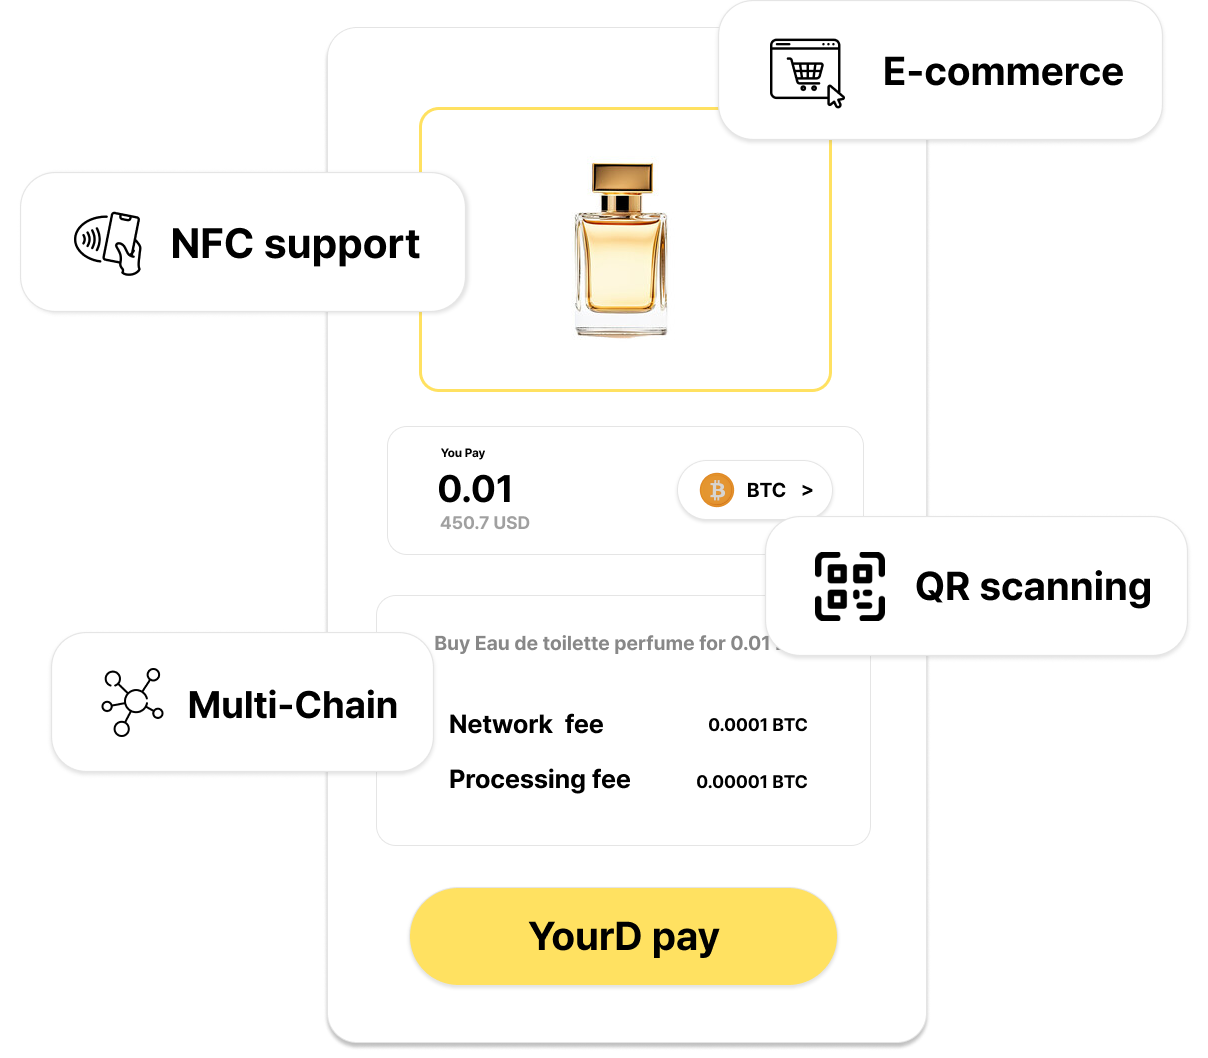
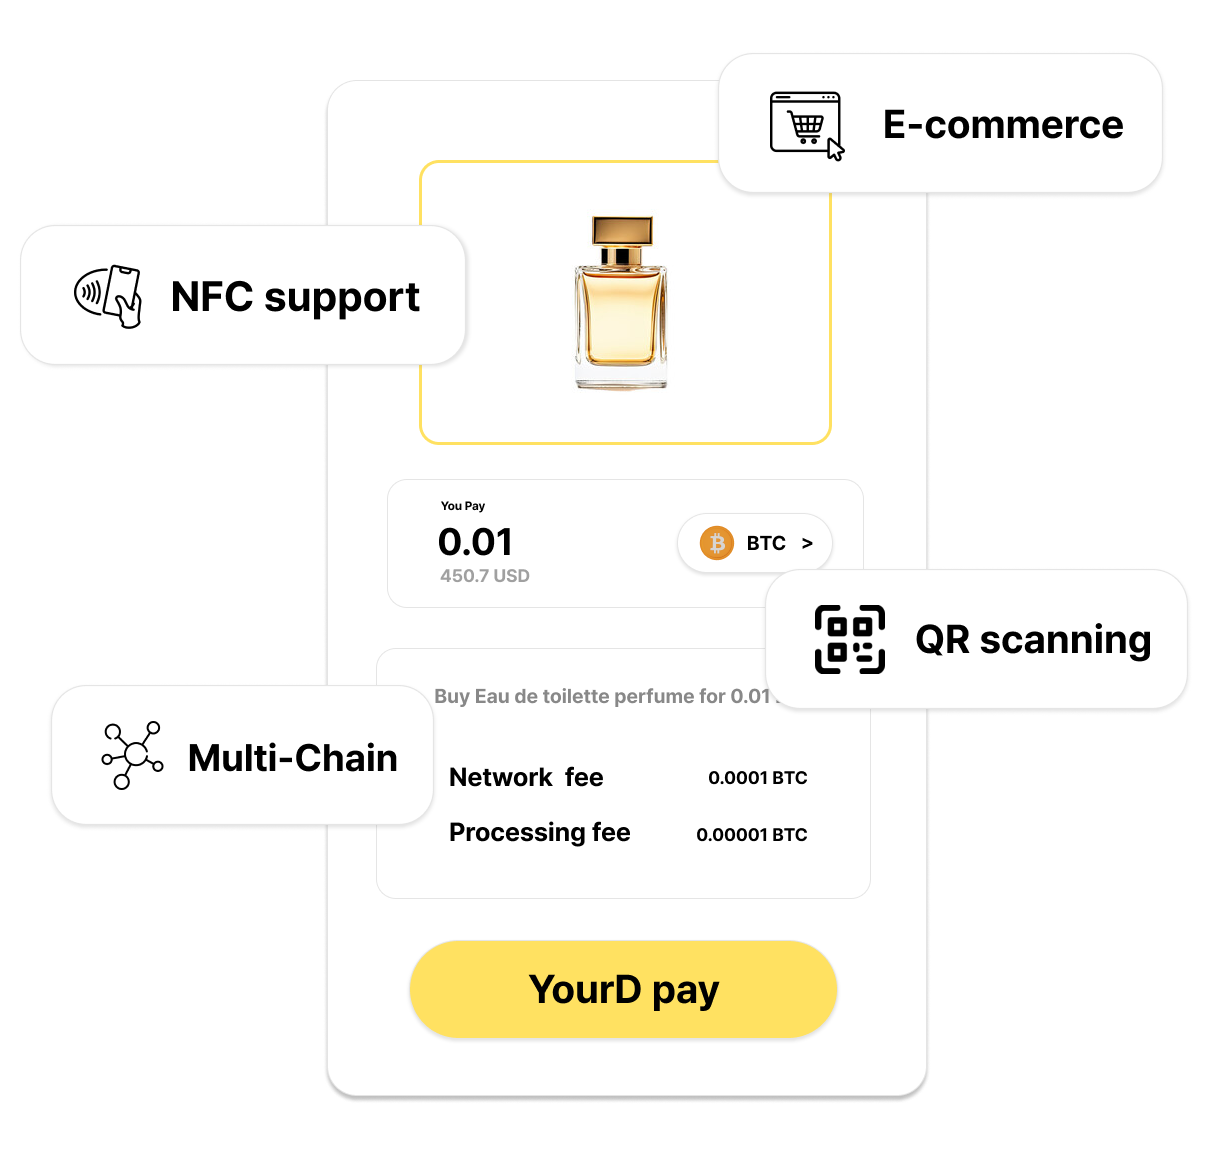
payment page picture modification and reactive

diff --git a/src/components/solutions/payment/EmphasisPayment.jsx b/src/components/solutions/payment/EmphasisPayment.jsx
@@ -25,7 +25,7 @@ const EmphasisSections = [
 
 export default function EmphasisPayment() {
   return (
-    <div className="h-fit min-h-1/2 w-full flex flex-col relative py-10 sm:py-20 justify-between items-center bg-opacity-70 gap-10 sm:gap-20">
+    <div className="h-fit min-h-1/2 w-full flex flex-col relative py-10 sm:py-20 justify-between items-center bg-opacity-70 gap-10 sm:gap-14">
       <div className="sm:text-5xl text-4xl font-bold flex flex-col items-center justify-center">
         <div>
           Your<span className="text-[#fccc00]">D</span>&nbsp;Pay <br />
@@ -58,15 +58,15 @@ export default function EmphasisPayment() {
           </div>
         </div>
       ))} */}
-      <div class="flex flex-col sm:flex-row gap-10 mt-10">
-        <div className="sm:w-[680px] bg-white rounded-xl px-4 py-4 drop-shadow-lg order-1 sm:order-none">
-          <div className="text-xl sm:text-5xl font-bold text-transparent bg-clip-text bg-gradient-to-r from-yellow-400 to-orange-400">
+      <div className="flex flex-col sm:flex-row gap-10 sm:px-12 md:px-16 lg:px-12 w-full">
+        <div className=" bg-white rounded-xl px-4 my-16 py-4 drop-shadow-lg order-1 sm:order-none">
+          <div className="text-xl sm:text-2xl md:text-4xl lg:text-5xl font-bold text-transparent bg-clip-text bg-gradient-to-r from-yellow-400 to-orange-400">
             Without location restrictions
           </div>
-          <div className="mt-14 sm:text-2xl ">
+          <div className="mt-14 sm:text-lg md:text-2xl  ">
             We provide a universal payment solution that can be used in both the
             real world and virtual space.
-            <div className="mt-4"> Pay easily from anywhere.</div>{' '}
+            <div className="mt-4"> Pay easily from anywhere.</div>
             <div className="mt-4">
               Design complex crypto payment systems easily so users don't need
               to know anything technical.
@@ -75,20 +75,20 @@ export default function EmphasisPayment() {
         </div>
         <img
           src={LocationPayment}
-          className="w-full sm:w-3/4 lg:w-2/5 object-contain"
+          className="w-full sm:w-2/5 lg:w-2/5 object-contain"
         />
       </div>
-      <div class="flex flex-col sm:flex-row sm:gap-10 mt-10">
+      <div className="flex flex-col sm:flex-row sm:gap-10 sm:px-12 md:px-16 lg:px-12 ">
         <img
           src={ModulePayment}
-          className="w-full sm:w-3/4 lg:w-2/5 object-contain"
+          className="w-full sm:w-2/5 lg:w-2/5 object-contain"
         />
-        <div className="flex sm:gap-28 mt-10">
-          <div className="sm:w-[680px] bg-white rounded-xl px-4 py-4 drop-shadow-lg">
-            <div className="text-xl sm:text-5xl font-bold text-transparent bg-clip-text bg-gradient-to-r from-yellow-400 to-orange-400">
+        <div className="flex sm:gap-28">
+          <div className=" bg-white rounded-xl px-4 py-4 my-16 drop-shadow-lg">
+            <div className="text-xl sm:text-2xl md:text-4xl font-bold text-transparent bg-clip-text bg-gradient-to-r from-yellow-400 to-orange-400">
               Payment module provided
             </div>
-            <div className="mt-14 sm:text-2xl ">
+            <div className="mt-14 sm:text-lg md:text-2xl">
               Easily integrate into your business with an efficient and powerful
               payment module.
               <div className="mt-10">

diff --git a/src/pages/product/yourdPaymentPage.jsx b/src/pages/product/yourdPaymentPage.jsx
@@ -24,7 +24,7 @@ export default function YourDPaymentPage() {
       </div>
       
       <div className="px-5 w-full sm:px-10 md:px-16 lg:px-[136px] max-w-[1600px] bg-white flex-col flex justify-center items-center mb-10 mt-10">
-        <div className="text-2xl sm:text-5xl">Your<span className="text-[#FCCC00]">D</span>&nbsp;pay</div>
+        <div className="text-4xl sm:text-5xl font-bold">Your<span className="text-[#FCCC00]">D</span>&nbsp;Pay</div>
         <div className="mt-10 text-2xl flex text-center sm:text-5xl font-bold gradientText pb-1">
         The Innovation Crypto Payment module
         </div>

diff --git a/src/components/solutions/payment/advantagePayment.jsx b/src/components/solutions/payment/advantagePayment.jsx
@@ -19,7 +19,7 @@ export default function AdvantagePayment() {
       </div>
       <div
         className="
-      flex flex-col sm:flex-row justify-center  items-center sm:items-start"
+      flex flex-col md:flex-row justify-center  items-center sm:items-start"
       >
         <img
           src={Payment}
